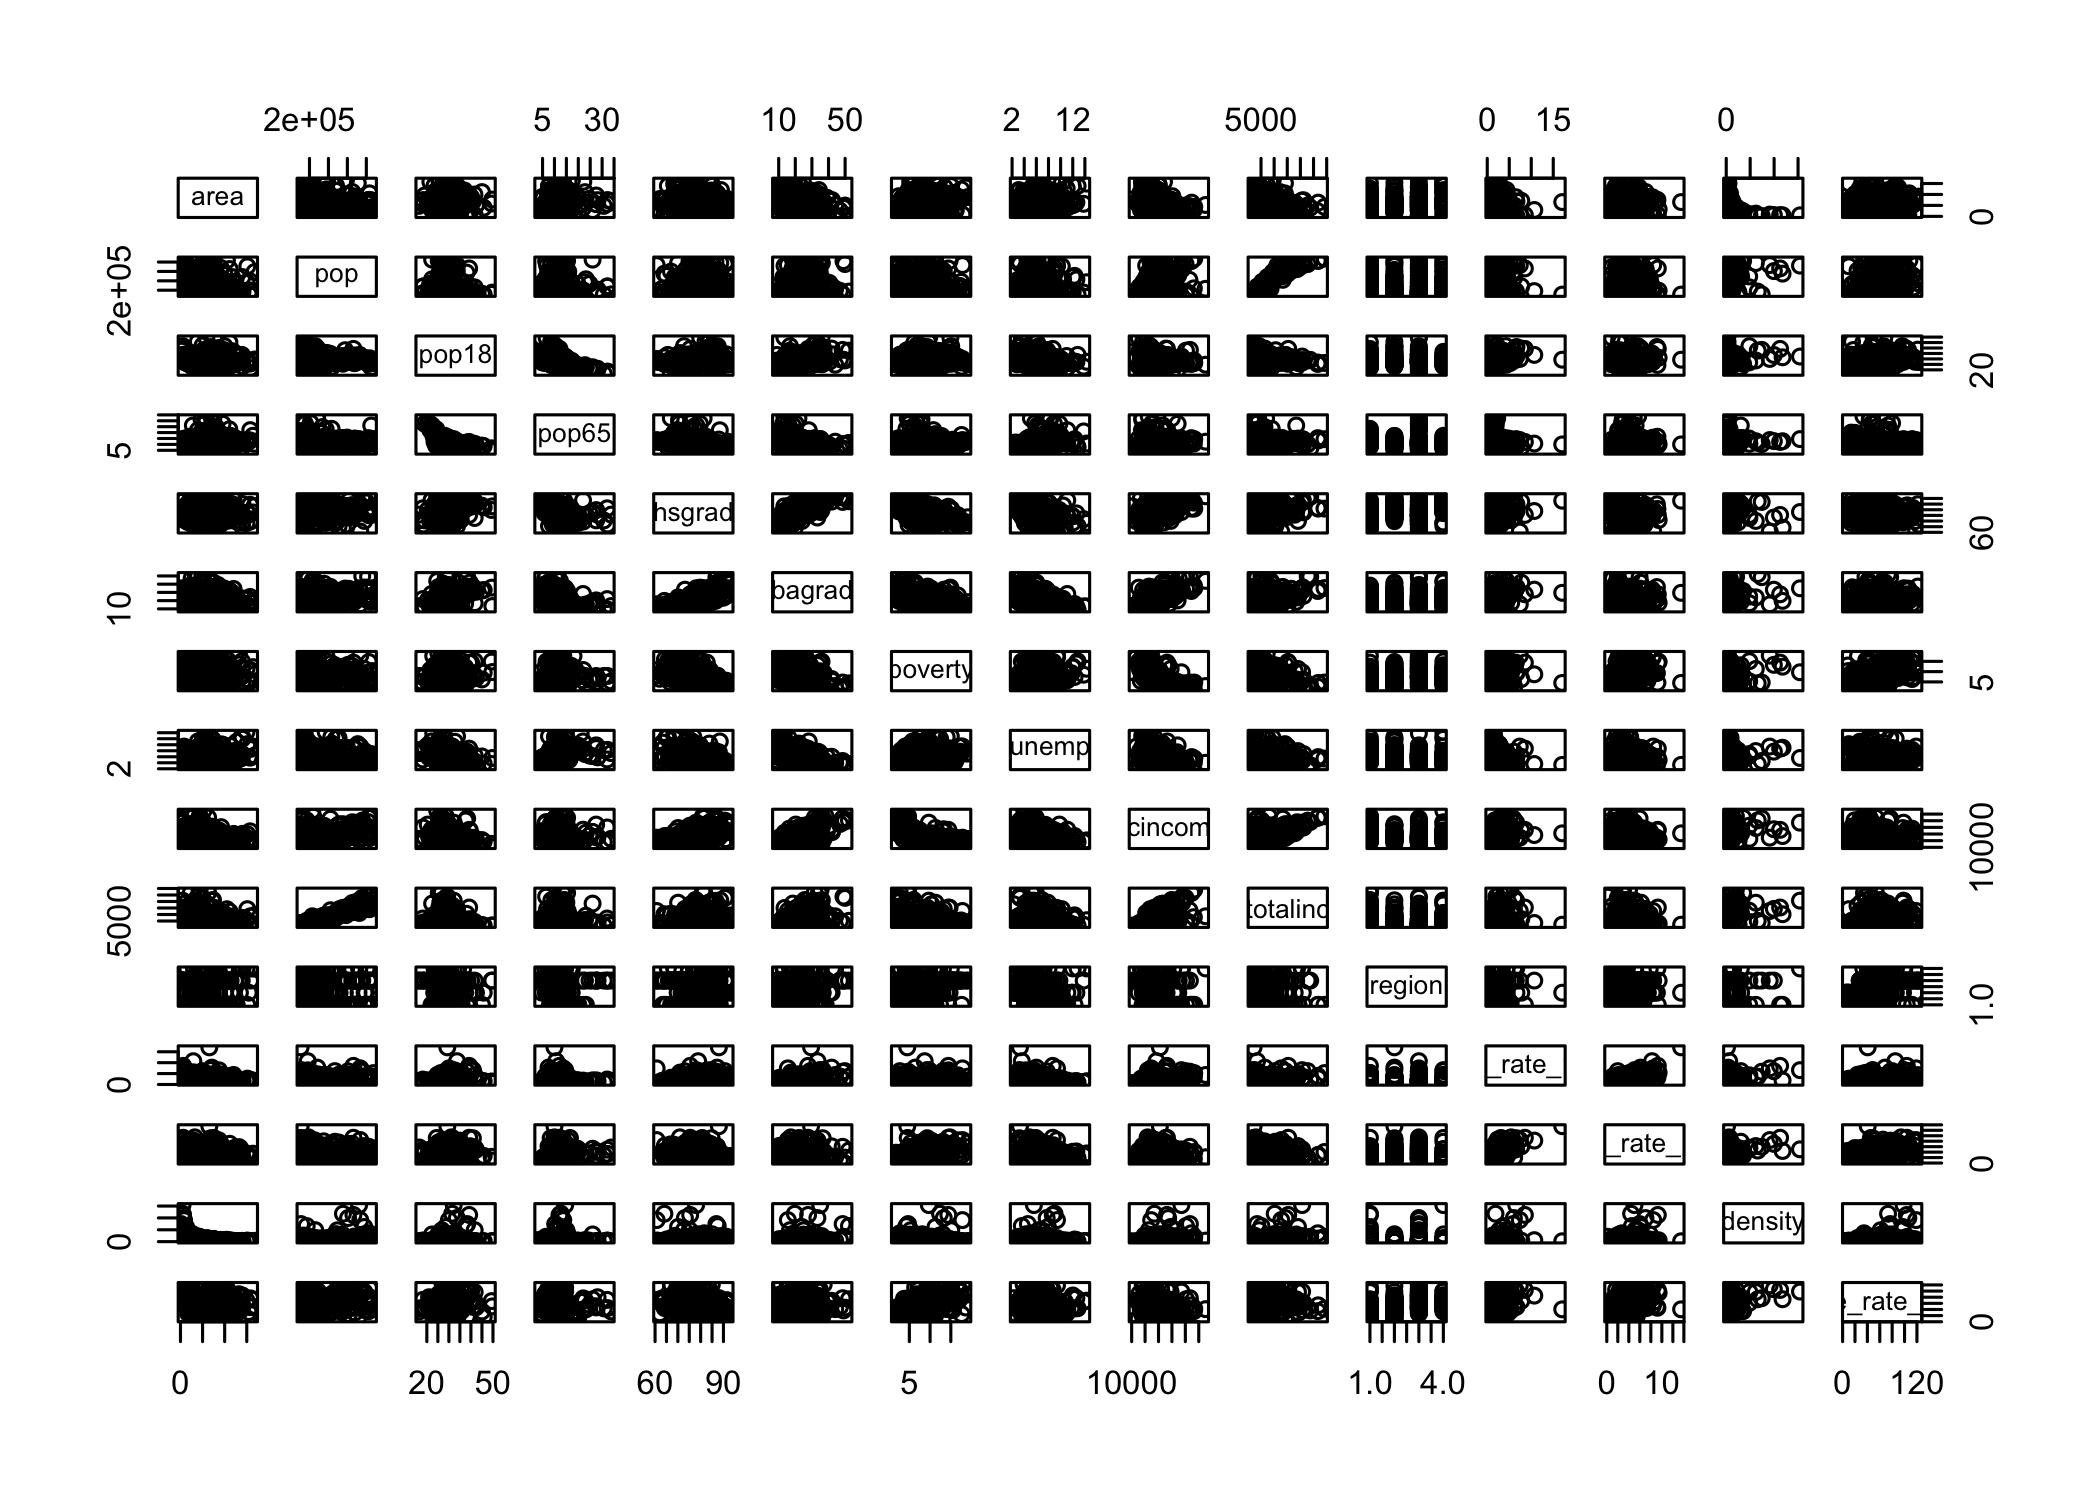
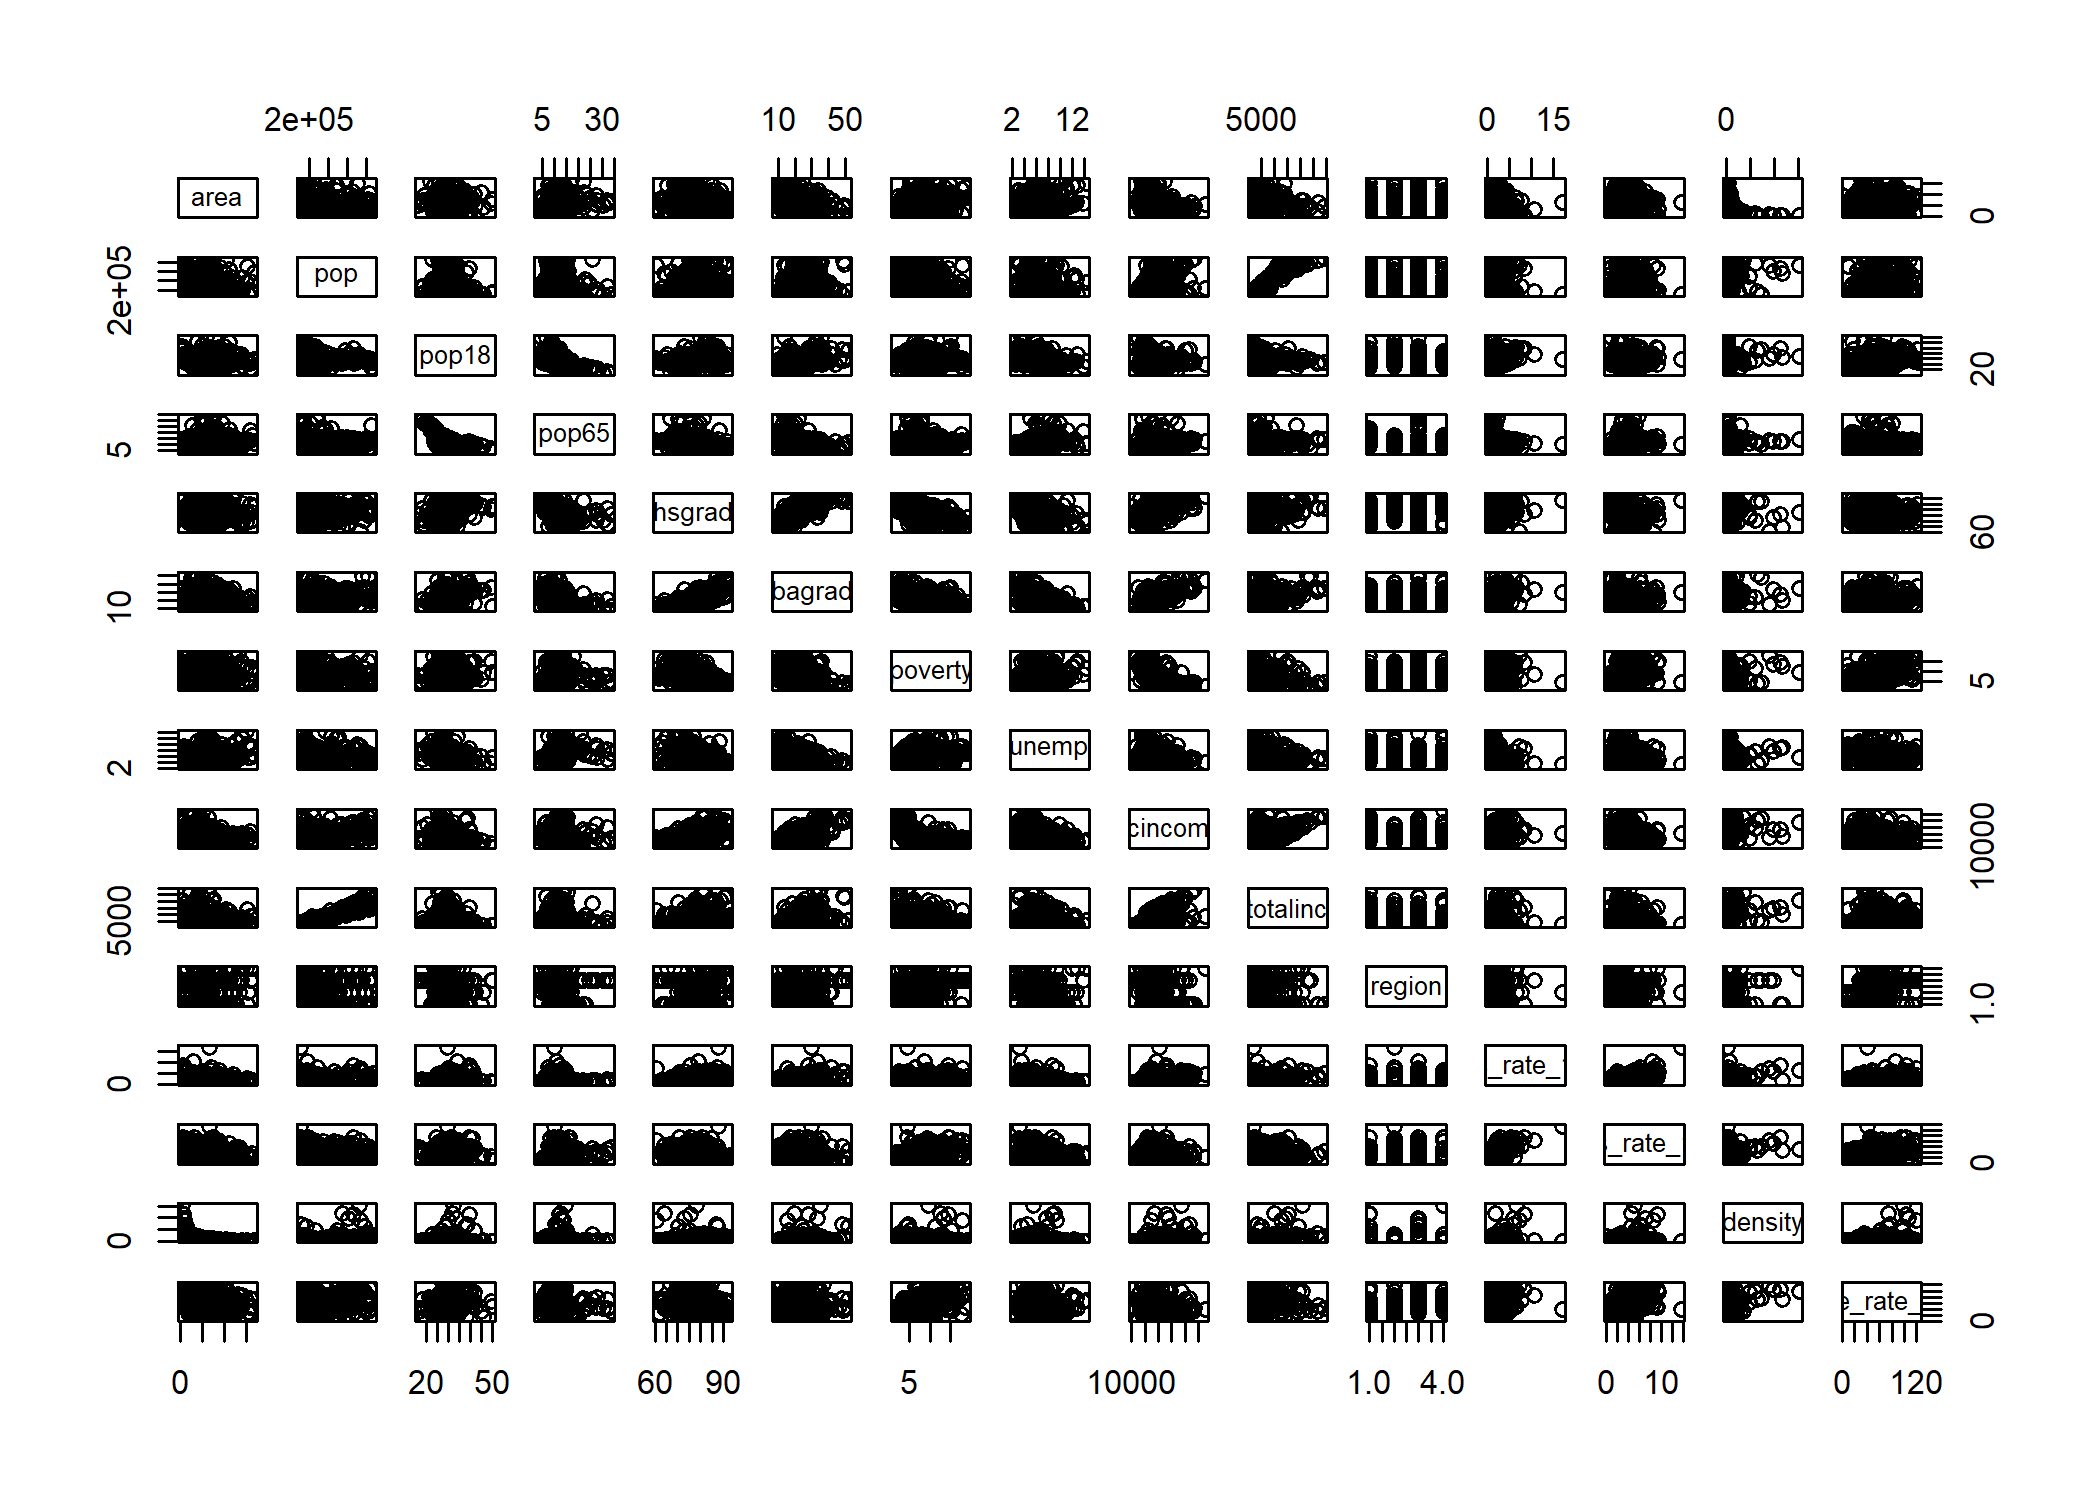
outliers

diff --git a/main.md b/main.md
@@ -33,27 +33,52 @@ cdi_data = read_csv("./data/cdi.csv") %>%
 
     ## Rows: 440 Columns: 17
 
-    ## ── Column specification ────────────────────────────────────────────────────────
+    ## -- Column specification --------------------------------------------------------
     ## Delimiter: ","
     ## chr  (2): cty, state
     ## dbl (15): id, area, pop, pop18, pop65, docs, beds, crimes, hsgrad, bagrad, p...
 
     ## 
-    ## ℹ Use `spec()` to retrieve the full column specification for this data.
-    ## ℹ Specify the column types or set `show_col_types = FALSE` to quiet this message.
+    ## i Use `spec()` to retrieve the full column specification for this data.
+    ## i Specify the column types or set `show_col_types = FALSE` to quiet this message.
+
+    ## Warning in FUN(X[[i]], ...): strings not representable in native encoding will
+    ## be translated to UTF-8
+
+    ## Warning in FUN(X[[i]], ...): unable to translate '<U+00C4>' to native encoding
+
+    ## Warning in FUN(X[[i]], ...): unable to translate '<U+00D6>' to native encoding
+
+    ## Warning in FUN(X[[i]], ...): unable to translate '<U+00E4>' to native encoding
+
+    ## Warning in FUN(X[[i]], ...): unable to translate '<U+00F6>' to native encoding
+
+    ## Warning in FUN(X[[i]], ...): unable to translate '<U+00DF>' to native encoding
+
+    ## Warning in FUN(X[[i]], ...): unable to translate '<U+00C6>' to native encoding
+
+    ## Warning in FUN(X[[i]], ...): unable to translate '<U+00E6>' to native encoding
+
+    ## Warning in FUN(X[[i]], ...): unable to translate '<U+00D8>' to native encoding
+
+    ## Warning in FUN(X[[i]], ...): unable to translate '<U+00F8>' to native encoding
+
+    ## Warning in FUN(X[[i]], ...): unable to translate '<U+00C5>' to native encoding
+
+    ## Warning in FUN(X[[i]], ...): unable to translate '<U+00E5>' to native encoding
 
 ``` r
 knitr::kable(head(cdi_data))
 ```
 
-|  id | cty_state   | cty      | state | area |     pop | pop18 | pop65 | hsgrad | bagrad | poverty | unemp | pcincome | totalinc | region | docs_rate_1000 | beds_rate_1000 |    density | crime_rate_1000 |
-|----:|:------------|:---------|:------|-----:|--------:|------:|------:|-------:|-------:|--------:|------:|---------:|---------:|-------:|---------------:|---------------:|-----------:|----------------:|
-|   1 | Los_Ange,CA | Los_Ange | CA    | 4060 | 8863164 |  32.1 |   9.7 |   70.0 |   22.3 |    11.6 |   8.0 |    20786 |   184230 |      4 |       2.671394 |       3.125295 |  2183.0453 |        77.73026 |
-|   2 | Cook,IL     | Cook     | IL    |  946 | 5105067 |  29.2 |  12.4 |   73.4 |   22.8 |    11.1 |   7.2 |    21729 |   110928 |      2 |       2.968227 |       4.221296 |  5396.4767 |        85.58869 |
-|   3 | Harris,TX   | Harris   | TX    | 1729 | 2818199 |  31.3 |   7.1 |   74.9 |   25.4 |    12.5 |   5.7 |    19517 |    55003 |      3 |       2.680080 |       4.417360 |  1629.9589 |        89.96029 |
-|   4 | San_Dieg,CA | San_Dieg | CA    | 4205 | 2498016 |  33.5 |  10.9 |   81.9 |   25.3 |     8.1 |   6.1 |    19588 |    48931 |      4 |       2.363876 |       2.473563 |   594.0585 |        69.58362 |
-|   5 | Orange,CA   | Orange   | CA    |  790 | 2410556 |  32.6 |   9.2 |   81.2 |   27.8 |     5.2 |   4.8 |    24400 |    58818 |      4 |       2.514772 |       2.642129 |  3051.3367 |        59.95463 |
-|   6 | Kings,NY    | Kings    | NY    |   71 | 2300664 |  28.3 |  12.4 |   63.7 |   16.6 |    19.5 |   9.5 |    16803 |    38658 |      1 |       2.112868 |       3.886704 | 32403.7183 |       295.98672 |
+|  id | cty\_state   | cty       | state | area |     pop | pop18 | pop65 | hsgrad | bagrad | poverty | unemp | pcincome | totalinc | region | docs\_rate\_1000 | beds\_rate\_1000 |    density | crime\_rate\_1000 |
+|----:|:-------------|:----------|:------|-----:|--------:|------:|------:|-------:|-------:|--------:|------:|---------:|---------:|-------:|-----------------:|-----------------:|-----------:|------------------:|
+|   1 | Los\_Ange,CA | Los\_Ange | CA    | 4060 | 8863164 |  32.1 |   9.7 |   70.0 |   22.3 |    11.6 |   8.0 |    20786 |   184230 |      4 |         2.671394 |         3.125295 |  2183.0453 |          77.73026 |
+|   2 | Cook,IL      | Cook      | IL    |  946 | 5105067 |  29.2 |  12.4 |   73.4 |   22.8 |    11.1 |   7.2 |    21729 |   110928 |      2 |         2.968227 |         4.221296 |  5396.4767 |          85.58869 |
+|   3 | Harris,TX    | Harris    | TX    | 1729 | 2818199 |  31.3 |   7.1 |   74.9 |   25.4 |    12.5 |   5.7 |    19517 |    55003 |      3 |         2.680080 |         4.417360 |  1629.9589 |          89.96029 |
+|   4 | San\_Dieg,CA | San\_Dieg | CA    | 4205 | 2498016 |  33.5 |  10.9 |   81.9 |   25.3 |     8.1 |   6.1 |    19588 |    48931 |      4 |         2.363876 |         2.473563 |   594.0585 |          69.58362 |
+|   5 | Orange,CA    | Orange    | CA    |  790 | 2410556 |  32.6 |   9.2 |   81.2 |   27.8 |     5.2 |   4.8 |    24400 |    58818 |      4 |         2.514772 |         2.642129 |  3051.3367 |          59.95463 |
+|   6 | Kings,NY     | Kings     | NY    |   71 | 2300664 |  28.3 |  12.4 |   63.7 |   16.6 |    19.5 |   9.5 |    16803 |    38658 |      1 |         2.112868 |         3.886704 | 32403.7183 |         295.98672 |
 
 ### Step 2 - Exploratory Analysis
 
@@ -66,6 +91,7 @@ cdi_data_exp = cdi_data %>%
   dplyr::select(-id,-cty,-state, -cty_state) 
 
 cdi_data_original = cdi_data_exp
+
 cdi_data_exp = cdi_data_exp %>%
   mutate(
     area = ifelse(area %in% boxplot.stats(cdi_data_exp$area)$out,NA,area),
@@ -140,9 +166,31 @@ crime_1000_cor = data.frame(cdi_data_cor) %>%
 knitr::kable(crime_1000_cor,digits = 2) 
 ```
 
-|                       |  area |  pop | pop18 | pop65 | hsgrad | bagrad | poverty | unemp | pcincome | totalinc | region | docs_rate_1000 | beds_rate_1000 | density | crime_rate_1000 |
-|:----------------------|------:|-----:|------:|------:|-------:|-------:|--------:|------:|---------:|---------:|-------:|---------------:|---------------:|--------:|----------------:|
-| Crime Rate (Per 1000) | -0.04 | 0.29 |  0.24 | -0.08 |  -0.13 |   0.09 |    0.49 | -0.07 |    -0.08 |     0.19 |   0.46 |           0.32 |           0.39 |    0.29 |               1 |
+|                       |  area |  pop | pop18 | pop65 | hsgrad | bagrad | poverty | unemp | pcincome | totalinc | region | docs\_rate\_1000 | beds\_rate\_1000 | density | crime\_rate\_1000 |
+|:----------------------|------:|-----:|------:|------:|-------:|-------:|--------:|------:|---------:|---------:|-------:|-----------------:|-----------------:|--------:|------------------:|
+| Crime Rate (Per 1000) | -0.04 | 0.29 |  0.24 | -0.08 |  -0.13 |   0.09 |    0.49 | -0.07 |    -0.08 |     0.19 |   0.46 |             0.32 |             0.39 |    0.29 |                 1 |
+
+### Remove outliers and high leverage point
+
+``` r
+cdi_data_clean = cdi_data[cdi_data$area >= quantile(cdi_data$area,0.005) & cdi_data$area <= quantile(cdi_data$area,0.995),]
+cdi_data_clean = cdi_data_clean[cdi_data_clean$pop >= quantile(cdi_data_clean$pop,0.005) & cdi_data_clean$pop <= quantile(cdi_data_clean$pop,0.995),]
+cdi_data_clean = cdi_data_clean[cdi_data_clean$pop18 >= quantile(cdi_data_clean$pop18,0.005) & cdi_data_clean$pop18 <= quantile(cdi_data_clean$pop18,0.995),]
+cdi_data_clean = cdi_data_clean[cdi_data_clean$pop65 >= quantile(cdi_data_clean$pop65,0.005) & cdi_data_clean$pop65 <= quantile(cdi_data_clean$pop65,0.995),]
+cdi_data_clean = cdi_data_clean[cdi_data_clean$hsgrad >= quantile(cdi_data_clean$hsgrad,0.005) & cdi_data_clean$hsgrad <= quantile(cdi_data_clean$hsgrad,0.995),]
+cdi_data_clean = cdi_data_clean[cdi_data_clean$bagrad >= quantile(cdi_data_clean$bagrad,0.005) & cdi_data_clean$bagrad <= quantile(cdi_data_clean$bagrad,0.995),]
+
+cdi_data_clean = cdi_data_clean[cdi_data_clean$poverty >= quantile(cdi_data_clean$poverty,0.005) & cdi_data_clean$poverty <= quantile(cdi_data_clean$poverty,0.995),]
+cdi_data_clean = cdi_data_clean[cdi_data_clean$unemp >= quantile(cdi_data_clean$unemp,0.005) & cdi_data_clean$unemp <= quantile(cdi_data_clean$unemp,0.995),]
+cdi_data_clean = cdi_data_clean[cdi_data_clean$pcincome >= quantile(cdi_data_clean$pcincome,0.005) & cdi_data_clean$pcincome <= quantile(cdi_data_clean$pcincome,0.995),]
+cdi_data_clean = cdi_data_clean[cdi_data_clean$totalinc >= quantile(cdi_data_clean$totalinc,0.005) & cdi_data_clean$totalinc <= quantile(cdi_data_clean$totalinc,0.995),]
+cdi_data_clean = cdi_data_clean[cdi_data_clean$docs_rate_1000 >= quantile(cdi_data_clean$docs_rate_1000,0.005) & cdi_data_clean$docs_rate_1000 <= quantile(cdi_data_clean$docs_rate_1000,0.995),]
+cdi_data_clean = cdi_data_clean[cdi_data_clean$beds_rate_1000 >= quantile(cdi_data_clean$beds_rate_1000,0.005) & cdi_data_clean$beds_rate_1000 <= quantile(cdi_data_clean$beds_rate_1000,0.995),]
+cdi_data_clean = cdi_data_clean[cdi_data_clean$beds_rate_1000 >= quantile(cdi_data_clean$beds_rate_1000,0.005) & cdi_data_clean$beds_rate_1000 <= quantile(cdi_data_clean$beds_rate_1000,0.995),]
+cdi_data_clean = cdi_data_clean[cdi_data_clean$density >= quantile(cdi_data_clean$density,0.005) & cdi_data_clean$density <= quantile(cdi_data_clean$density,0.995),]
+
+cdi_data_clean = cdi_data_clean[cdi_data_clean$crime_rate_1000 >= quantile(cdi_data_clean$crime_rate_1000,0.005) & cdi_data_clean$beds_rate_1000 <= quantile(cdi_data_clean$crime_rate_1000,0.995),]
+```
 
 ### Model construction
 
@@ -152,6 +200,7 @@ Data used for building model:
 #cdi_model = cdi_data %>% 
 #  dplyr::select(-id,-cty_state, -cty,-state) %>% 
 #  mutate(region = factor(region))
+
 cdi_model = cdi_data_exp %>% mutate(region = factor(region))
 ```
 
@@ -162,7 +211,7 @@ summary(full.fit) %>%
   mutate(p_rank = rank(p.value))
 ```
 
-    ## # A tibble: 17 × 6
+    ## # A tibble: 17 x 6
     ##    term             estimate  std.error statistic  p.value p_rank
     ##    <chr>               <dbl>      <dbl>     <dbl>    <dbl>  <dbl>
     ##  1 (Intercept)    -77.7      27.7         -2.81   5.32e- 3      9
@@ -472,23 +521,23 @@ both = step(full.fit, direction = "both") %>% broom::tidy() %>% rename(stepwise 
 bind_cols(backward[-1,1],both[-1,1]) %>% knitr::kable()
 ```
 
-| backward       | stepwise       |
-|:---------------|:---------------|
-| pop            | pop            |
-| pop18          | pop18          |
-| bagrad         | bagrad         |
-| poverty        | poverty        |
-| pcincome       | pcincome       |
-| totalinc       | totalinc       |
-| region2        | region2        |
-| region3        | region3        |
-| region4        | region4        |
-| beds_rate_1000 | beds_rate_1000 |
+| backward         | stepwise         |
+|:-----------------|:-----------------|
+| pop              | pop              |
+| pop18            | pop18            |
+| bagrad           | bagrad           |
+| poverty          | poverty          |
+| pcincome         | pcincome         |
+| totalinc         | totalinc         |
+| region2          | region2          |
+| region3          | region3          |
+| region4          | region4          |
+| beds\_rate\_1000 | beds\_rate\_1000 |
 
 ## Criteria based selection
 
-pop pop18 hsgrad bagrad poverty pcincome totalinc region beds_rate_1000
-density
+pop pop18 hsgrad bagrad poverty pcincome totalinc region
+beds\_rate\_1000 density
 
 ``` r
 sb = regsubsets(crime_rate_1000 ~ ., data = cdi_model, nvmax = 14)
@@ -558,11 +607,11 @@ abline(0,1)
 plot(2:15, sumsb$adjr2, xlab="No of parameters", ylab="Adj R2")
 ```
 
-![](main_files/figure-gfm/unnamed-chunk-3-1.png)<!-- -->
+![](main_files/figure-gfm/unnamed-chunk-4-1.png)<!-- -->
 
 ## Interaction
 
-Does the relationship between the crime_rate_1000 and poverty vary by
+Does the relationship between the crime\_rate\_1000 and poverty vary by
 region status?
 
 ``` r
@@ -573,7 +622,7 @@ ggplot(cdi_data, aes(x = poverty, y = crime_rate_1000, color = region, alpha = .
 
     ## `geom_smooth()` using formula 'y ~ x'
 
-![](main_files/figure-gfm/unnamed-chunk-4-1.png)<!-- -->
+![](main_files/figure-gfm/unnamed-chunk-5-1.png)<!-- -->
 
 ``` r
 # fit model with interaction
@@ -692,7 +741,7 @@ poverty insignificant
 plot(fit_test, which = 4) 
 ```
 
-![](main_files/figure-gfm/unnamed-chunk-6-1.png)<!-- -->
+![](main_files/figure-gfm/unnamed-chunk-7-1.png)<!-- -->
 
 ``` r
 cdiOut = cdi_model[-c(1,6),]
@@ -774,10 +823,10 @@ par(mfrow = c(2,2))
 plot(without)
 ```
 
-![](main_files/figure-gfm/unnamed-chunk-6-2.png)<!-- -->
+![](main_files/figure-gfm/unnamed-chunk-7-2.png)<!-- -->
 
 ``` r
 boxcox(without)
 ```
 
-![](main_files/figure-gfm/unnamed-chunk-6-3.png)<!-- -->
+![](main_files/figure-gfm/unnamed-chunk-7-3.png)<!-- -->
